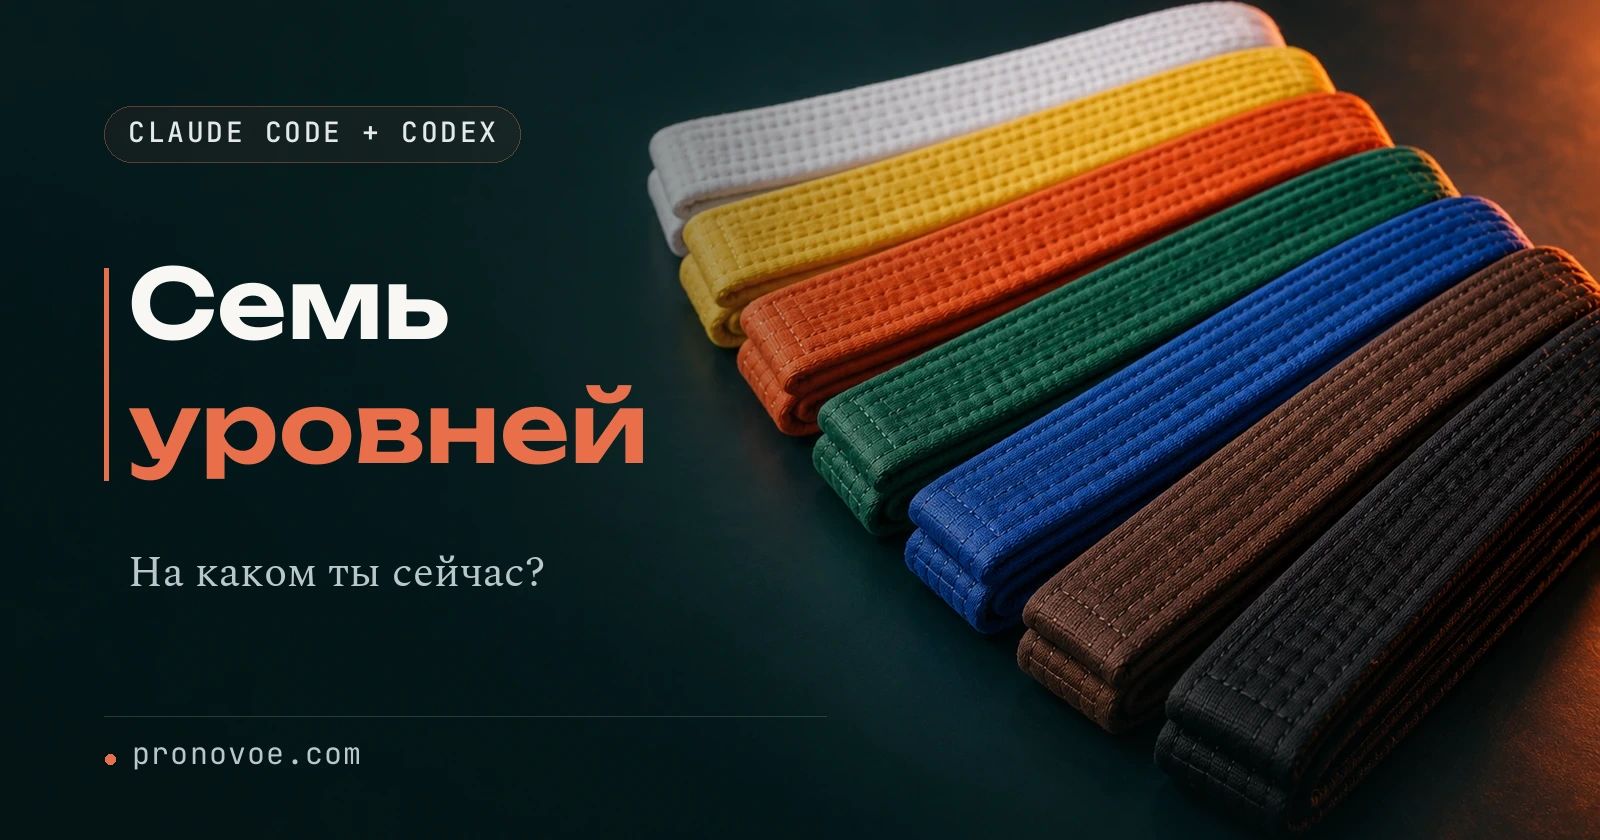
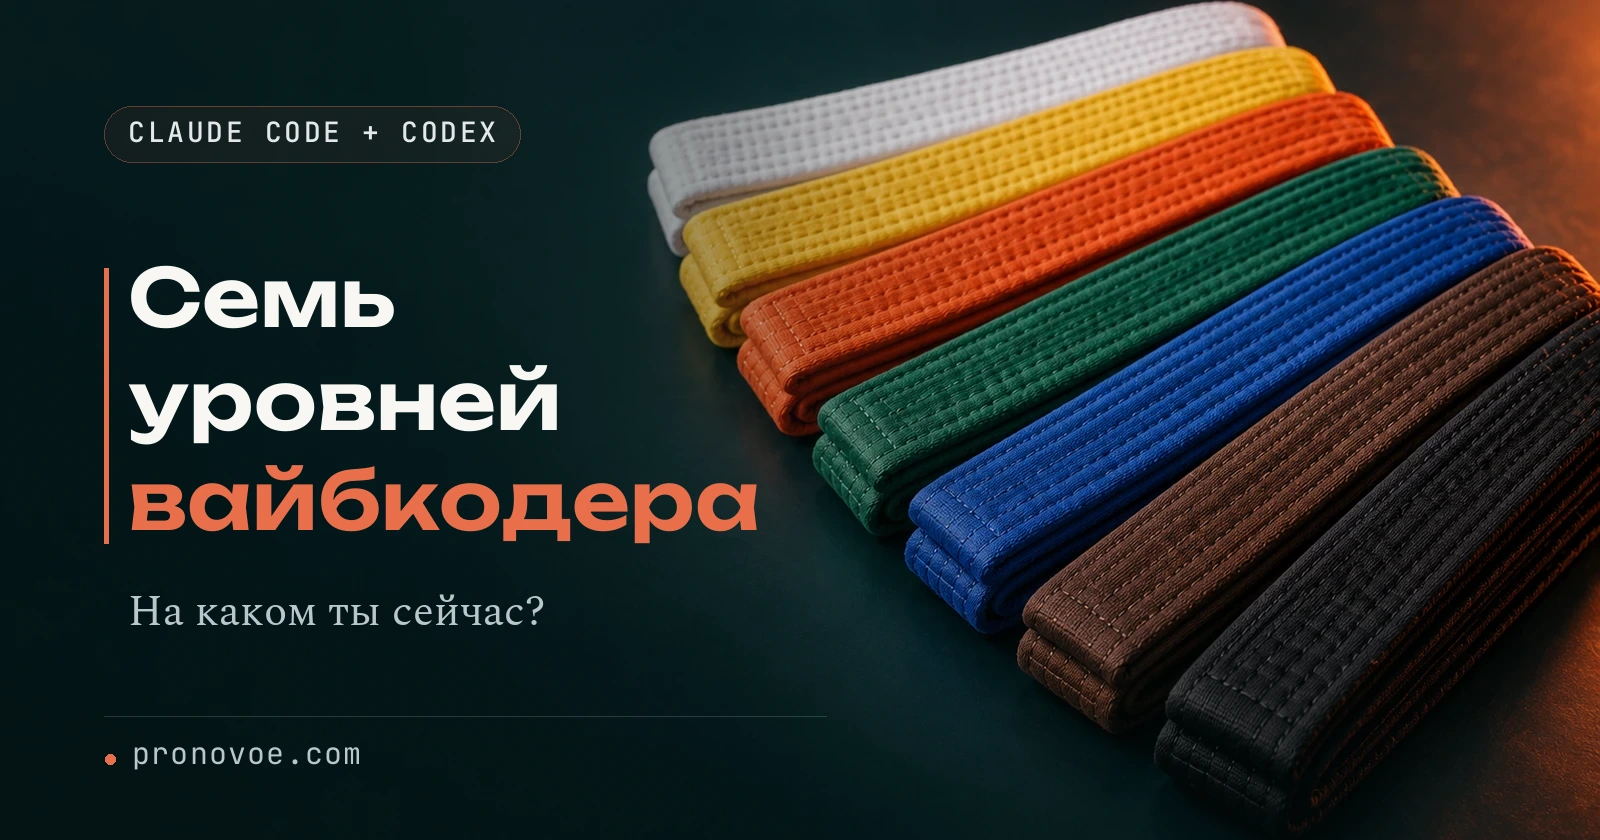
Первый экран: поиск в шапке, картинка справа с дорисованным Кодексом продолжением сцены, слева ровный тёмно-зелёный; метки под шапкой. Обложка «Семь уровней вайбкодера» целиком

Changed region(s): [[0.0625, 0.4333, 0.5, 0.7429], [0.0625, 0.3095, 0.2812, 0.4024]]

diff --git a/index.html b/index.html
@@ -263,6 +263,46 @@
       .cover-foot { gap: 10px }
       .cover-foot nav { gap: 6px 16px }
     }
+
+    /* Первый экран 05.10: поиск в шапке, картинка справа, вокруг неё дорисованное продолжение сцены
+       (assets/glavnaya/hero-fon.webp, исходник и задание - tasks/для-кодекса/2026-10-05-HERO-RASSHIRENIE.md) */
+    .cover-bar, .cover-body, .cover-foot { width: min(1120px, calc(100% - 40px)) }
+    .cover-body { padding: 52px 0 46px }
+    .cover-copy { max-width: 640px }
+    .pill { margin-bottom: 22px }
+    .cover h1 { font-size: clamp(32px, 3.2vw, 48px); line-height: 1.08 }
+    .cover .lead { max-width: 560px; margin-top: 18px; font-size: 19px }
+    .cover .toolbar { max-width: 660px; margin: 30px 0 0 26px }
+    .cover .search-input { flex: 1 1 320px; padding: 17px 20px; font-size: 17px }
+    .cover-hint { margin: 12px 0 0 26px; color: rgba(243,239,230,.62); font: 500 12px/1.5 "JetBrains Mono", ui-monospace, monospace }
+    .cover-scene { inset: 50% max(20px, calc((100% - 1120px) / 2)) auto auto; width: min(40%, 500px); height: auto; aspect-ratio: 16 / 10;
+      transform: translateY(-46%); overflow: visible }
+    .cover-scene::before { inset: -142.11% -190.38% -142.86% -70.19%; z-index: 0; background: url("assets/glavnaya/hero-fon.webp") 0 0 / 100% 100% no-repeat }
+    .cover-scene img { position: relative; z-index: 1;
+      -webkit-mask-image: linear-gradient(90deg, transparent 0, #000 6%, #000 94%, transparent 100%), linear-gradient(0deg, transparent 0, #000 8%, #000 92%, transparent 100%);
+      -webkit-mask-composite: source-in;
+              mask-image: linear-gradient(90deg, transparent 0, #000 6%, #000 94%, transparent 100%), linear-gradient(0deg, transparent 0, #000 8%, #000 92%, transparent 100%);
+              mask-composite: intersect }
+    .after-cover { padding-top: 36px }
+    .filtr-metok { display: flex; align-items: center; gap: 12px; margin: 34px 0 0; color: var(--muted); font-size: 15px }
+    .filtr-metok .metka-select { padding-top: 11px; padding-bottom: 11px }
+    main > .lager { margin-top: 30px }
+    @media (max-width: 900px) {
+      .cover-scene { inset: 0; width: 100%; height: 100%; transform: none; aspect-ratio: auto }
+      .cover-scene img { position: static; width: 100%; height: 100%; -webkit-mask-image: none; mask-image: none }
+      .cover-scene::before { inset: 0; z-index: 1; background: linear-gradient(90deg, rgba(11,33,34,.92) 0%, rgba(11,33,34,.6) 60%, rgba(11,33,34,.35) 100%),
+        linear-gradient(0deg, #0B2122 0%, rgba(11,33,34,0) 30%) }
+    }
+    @media (max-width: 600px) {
+      .cover-bar, .cover-body, .cover-foot { width: calc(100% - 32px) }
+      .cover-scene { inset: 0 0 auto 0; height: 240px }
+      .cover-scene::before { background: linear-gradient(0deg, #0B2122 2%, rgba(11,33,34,.35) 55%, rgba(11,33,34,.55) 100%) }
+      .cover-body { padding: 150px 0 34px }
+      .cover h1 { font-size: 32px }
+      .cover .lead { font-size: 17px }
+      .cover .toolbar, .cover-hint { margin-left: 18px }
+      .cover .search-input { font-size: 16px }
+    }
   </style>
 </head>
 <body>
@@ -279,10 +319,11 @@
         <p class="pill">Инструкции по нейросетям</p>
         <h1>Нейросети работают <em>на тебя</em></h1>
         <p class="lead">Надо только научиться ставить задачу. Здесь инструкции и разборы - от первой кнопки до собранных проектов</p>
-        <div class="cover-actions">
-          <a class="btn-main" href="#guide-search">Найти инструкцию →</a>
-          <span class="btn-note">Впиши тему или слово из поста или видео - нужная инструкция найдётся сразу</span>
+        <div class="toolbar" role="search">
+          <input class="search-input" type="search" id="guide-search" placeholder="Тема или слово из поста или видео" aria-label="Поиск по теме или слову из поста или видео">
+          <button class="search-go" id="search-go" type="button">Найти</button>
         </div>
+        <p class="cover-hint">Например: доступ, голосовой ввод, свой сайт</p>
       </div>
     </div>
     <div class="cover-foot"><span><b>30</b> инструкций по шагам</span>
@@ -307,8 +348,7 @@
   </section>
 
   <main>
-    <div class="toolbar" role="search">
-      <input class="search-input" type="search" id="guide-search" placeholder="Тема или слово из поста или видео" aria-label="Поиск по теме или слову из поста или видео">
+    <div class="filtr-metok"><label for="metka">Показать:</label>
       <select class="metka-select" id="metka" aria-label="Метка">
         <option value="all">Все метки</option>
         <option value="claude-chat">Claude (чат)</option>
@@ -336,8 +376,6 @@
         <option value="besplatno">Бесплатные сервисы</option>
         <option value="drugoe">Другое: своё слово</option>
       </select>
-      <button class="search-go" id="search-go" type="button">Найти</button>
-    </div>
     </div>
     <p class="no-results" id="no-results" role="status" aria-live="polite">Ничего не нашлось. Попробуй другое слово или выбери «Все метки»</p>
     <section class="lager" id="lager" aria-label="Практикум">

diff --git a/scripts/shablon_glavnoy.html b/scripts/shablon_glavnoy.html
@@ -263,6 +263,46 @@
       .cover-foot {{ gap: 10px }}
       .cover-foot nav {{ gap: 6px 16px }}
     }}
+
+    /* Первый экран 05.10: поиск в шапке, картинка справа, вокруг неё дорисованное продолжение сцены
+       (assets/glavnaya/hero-fon.webp, исходник и задание - tasks/для-кодекса/2026-10-05-HERO-RASSHIRENIE.md) */
+    .cover-bar, .cover-body, .cover-foot {{ width: min(1120px, calc(100% - 40px)) }}
+    .cover-body {{ padding: 52px 0 46px }}
+    .cover-copy {{ max-width: 640px }}
+    .pill {{ margin-bottom: 22px }}
+    .cover h1 {{ font-size: clamp(32px, 3.2vw, 48px); line-height: 1.08 }}
+    .cover .lead {{ max-width: 560px; margin-top: 18px; font-size: 19px }}
+    .cover .toolbar {{ max-width: 660px; margin: 30px 0 0 26px }}
+    .cover .search-input {{ flex: 1 1 320px; padding: 17px 20px; font-size: 17px }}
+    .cover-hint {{ margin: 12px 0 0 26px; color: rgba(243,239,230,.62); font: 500 12px/1.5 "JetBrains Mono", ui-monospace, monospace }}
+    .cover-scene {{ inset: 50% max(20px, calc((100% - 1120px) / 2)) auto auto; width: min(40%, 500px); height: auto; aspect-ratio: 16 / 10;
+      transform: translateY(-46%); overflow: visible }}
+    .cover-scene::before {{ inset: -142.11% -190.38% -142.86% -70.19%; z-index: 0; background: url("assets/glavnaya/hero-fon.webp") 0 0 / 100% 100% no-repeat }}
+    .cover-scene img {{ position: relative; z-index: 1;
+      -webkit-mask-image: linear-gradient(90deg, transparent 0, #000 6%, #000 94%, transparent 100%), linear-gradient(0deg, transparent 0, #000 8%, #000 92%, transparent 100%);
+      -webkit-mask-composite: source-in;
+              mask-image: linear-gradient(90deg, transparent 0, #000 6%, #000 94%, transparent 100%), linear-gradient(0deg, transparent 0, #000 8%, #000 92%, transparent 100%);
+              mask-composite: intersect }}
+    .after-cover {{ padding-top: 36px }}
+    .filtr-metok {{ display: flex; align-items: center; gap: 12px; margin: 34px 0 0; color: var(--muted); font-size: 15px }}
+    .filtr-metok .metka-select {{ padding-top: 11px; padding-bottom: 11px }}
+    main > .lager {{ margin-top: 30px }}
+    @media (max-width: 900px) {{
+      .cover-scene {{ inset: 0; width: 100%; height: 100%; transform: none; aspect-ratio: auto }}
+      .cover-scene img {{ position: static; width: 100%; height: 100%; -webkit-mask-image: none; mask-image: none }}
+      .cover-scene::before {{ inset: 0; z-index: 1; background: linear-gradient(90deg, rgba(11,33,34,.92) 0%, rgba(11,33,34,.6) 60%, rgba(11,33,34,.35) 100%),
+        linear-gradient(0deg, #0B2122 0%, rgba(11,33,34,0) 30%) }}
+    }}
+    @media (max-width: 600px) {{
+      .cover-bar, .cover-body, .cover-foot {{ width: calc(100% - 32px) }}
+      .cover-scene {{ inset: 0 0 auto 0; height: 240px }}
+      .cover-scene::before {{ background: linear-gradient(0deg, #0B2122 2%, rgba(11,33,34,.35) 55%, rgba(11,33,34,.55) 100%) }}
+      .cover-body {{ padding: 150px 0 34px }}
+      .cover h1 {{ font-size: 32px }}
+      .cover .lead {{ font-size: 17px }}
+      .cover .toolbar, .cover-hint {{ margin-left: 18px }}
+      .cover .search-input {{ font-size: 16px }}
+    }}
   </style>
 </head>
 <body>
@@ -279,10 +319,11 @@
         <p class="pill">{nadzagolovok}</p>
         <h1>{h1} <em>{h1_akcent}</em></h1>
         <p class="lead">{lead}</p>
-        <div class="cover-actions">
-          <a class="btn-main" href="#guide-search">Найти инструкцию →</a>
-          <span class="btn-note">Впиши тему или слово из поста или видео - нужная инструкция найдётся сразу</span>
+        <div class="toolbar" role="search">
+          <input class="search-input" type="search" id="guide-search" placeholder="Тема или слово из поста или видео" aria-label="Поиск по теме или слову из поста или видео">
+          <button class="search-go" id="search-go" type="button">Найти</button>
         </div>
+        <p class="cover-hint">Например: доступ, голосовой ввод, свой сайт</p>
       </div>
     </div>
     <div class="cover-foot"><span><b>{chislo}</b> инструкций по шагам</span>
@@ -302,13 +343,10 @@
   </section>
 
   <main>
-    <div class="toolbar" role="search">
-      <input class="search-input" type="search" id="guide-search" placeholder="Тема или слово из поста или видео" aria-label="Поиск по теме или слову из поста или видео">
+    <div class="filtr-metok"><label for="metka">Показать:</label>
       <select class="metka-select" id="metka" aria-label="Метка">
 {filtry}
       </select>
-      <button class="search-go" id="search-go" type="button">Найти</button>
-    </div>
     </div>
     <p class="no-results" id="no-results" role="status" aria-live="polite">Ничего не нашлось. Попробуй другое слово или выбери «Все метки»</p>
     <section class="lager" id="lager" aria-label="Практикум">
